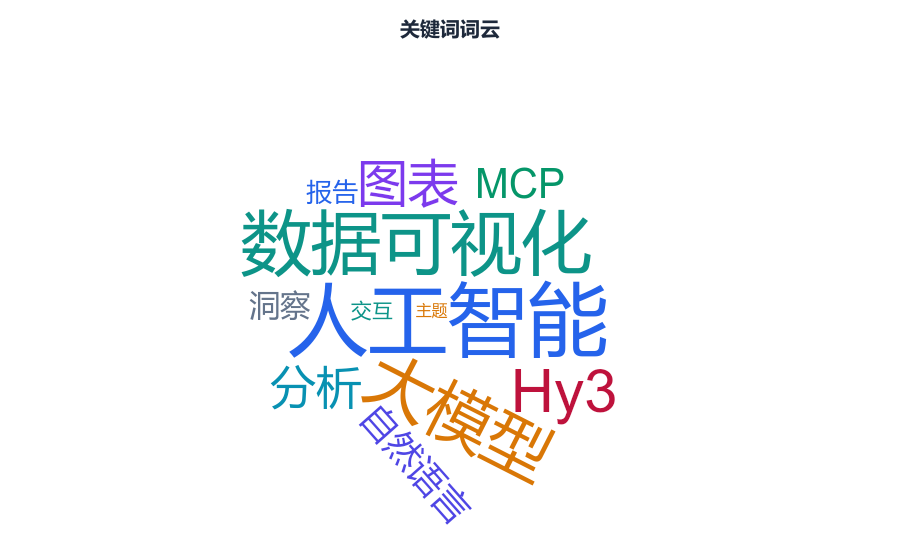
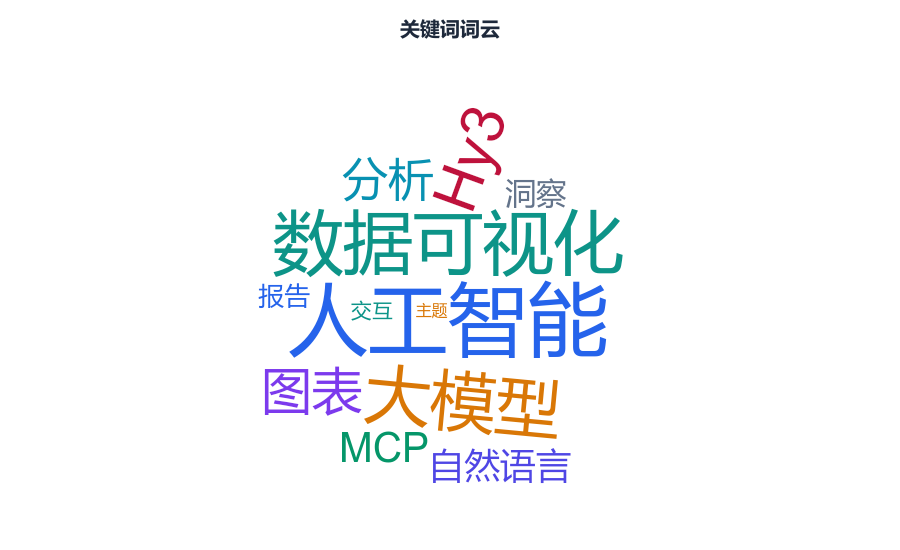
chore: add 3D and composite chart demo screenshots and GIF
- Generate screenshots 11-18 for bar3d, scatter3d, line3d, line_bar,
  dual_axis, stacked_area, grouped_line, area_bar
- Include 3D bar and dual_axis frames in demo GIF
- Update README.md and README_CN.md gallery with new examples

Changed region(s): [[0.2489, 0.1855, 0.7156, 0.5873], [0.28, 0.6491, 0.6844, 0.9582]]

diff --git a/hy3-data-mcp/README.md b/hy3-data-mcp/README.md
@@ -67,6 +67,22 @@ All screenshots are rendered with the **Professional** theme using the bundled s
     <td align="center"><img src="https://raw.githubusercontent.com/xy200303/Hy3/feat/add-hy3-data-mcp/hy3-data-mcp/assets/screenshots/10-dashboard.png" width="420" alt="Dashboard"><br/>Composite dashboard</td>
   </tr>
   <tr>
+    <td align="center"><img src="https://raw.githubusercontent.com/xy200303/Hy3/feat/add-hy3-data-mcp/hy3-data-mcp/assets/screenshots/11-bar3d.png" width="420" alt="3D bar"><br/>3D bar by category</td>
+    <td align="center"><img src="https://raw.githubusercontent.com/xy200303/Hy3/feat/add-hy3-data-mcp/hy3-data-mcp/assets/screenshots/12-scatter3d.png" width="420" alt="3D scatter"><br/>3D scatter: units / revenue / profit</td>
+  </tr>
+  <tr>
+    <td align="center"><img src="https://raw.githubusercontent.com/xy200303/Hy3/feat/add-hy3-data-mcp/hy3-data-mcp/assets/screenshots/13-line3d.png" width="420" alt="3D line"><br/>3D line: units / revenue / profit</td>
+    <td align="center"><img src="https://raw.githubusercontent.com/xy200303/Hy3/feat/add-hy3-data-mcp/hy3-data-mcp/assets/screenshots/14-line_bar.png" width="420" alt="Line + bar"><br/>Line + bar combo</td>
+  </tr>
+  <tr>
+    <td align="center"><img src="https://raw.githubusercontent.com/xy200303/Hy3/feat/add-hy3-data-mcp/hy3-data-mcp/assets/screenshots/15-dual_axis.png" width="420" alt="Dual axis"><br/>Dual-axis combo</td>
+    <td align="center"><img src="https://raw.githubusercontent.com/xy200303/Hy3/feat/add-hy3-data-mcp/hy3-data-mcp/assets/screenshots/16-stacked_area.png" width="420" alt="Stacked area"><br/>Stacked area by region</td>
+  </tr>
+  <tr>
+    <td align="center"><img src="https://raw.githubusercontent.com/xy200303/Hy3/feat/add-hy3-data-mcp/hy3-data-mcp/assets/screenshots/17-grouped_line.png" width="420" alt="Grouped line"><br/>Grouped line by region</td>
+    <td align="center"><img src="https://raw.githubusercontent.com/xy200303/Hy3/feat/add-hy3-data-mcp/hy3-data-mcp/assets/screenshots/18-area_bar.png" width="420" alt="Area + bar"><br/>Area + bar combo</td>
+  </tr>
+  <tr>
     <td align="center" colspan="2"><img src="https://raw.githubusercontent.com/xy200303/Hy3/feat/add-hy3-data-mcp/hy3-data-mcp/assets/dashboard_2024_Sales___Profit_Dashboard_1783662671334.png" width="860" alt="2024 Sales & Profit Dashboard"><br/>2024 Sales &amp; Profit Dashboard (PNG composite)</td>
   </tr>
 </table>

diff --git a/hy3-data-mcp/README_CN.md b/hy3-data-mcp/README_CN.md
@@ -67,6 +67,22 @@
     <td align="center"><img src="https://raw.githubusercontent.com/xy200303/Hy3/feat/add-hy3-data-mcp/hy3-data-mcp/assets/screenshots/10-dashboard.png" width="420" alt="数据大屏"><br/>综合数据大屏</td>
   </tr>
   <tr>
+    <td align="center"><img src="https://raw.githubusercontent.com/xy200303/Hy3/feat/add-hy3-data-mcp/hy3-data-mcp/assets/screenshots/11-bar3d.png" width="420" alt="3D 柱状图"><br/>3D 各品类营收</td>
+    <td align="center"><img src="https://raw.githubusercontent.com/xy200303/Hy3/feat/add-hy3-data-mcp/hy3-data-mcp/assets/screenshots/12-scatter3d.png" width="420" alt="3D 散点图"><br/>3D 销量-营收-利润散点</td>
+  </tr>
+  <tr>
+    <td align="center"><img src="https://raw.githubusercontent.com/xy200303/Hy3/feat/add-hy3-data-mcp/hy3-data-mcp/assets/screenshots/13-line3d.png" width="420" alt="3D 折线图"><br/>3D 销量-营收-利润折线</td>
+    <td align="center"><img src="https://raw.githubusercontent.com/xy200303/Hy3/feat/add-hy3-data-mcp/hy3-data-mcp/assets/screenshots/14-line_bar.png" width="420" alt="折线+柱状组合图"><br/>月度营收与利润组合图</td>
+  </tr>
+  <tr>
+    <td align="center"><img src="https://raw.githubusercontent.com/xy200303/Hy3/feat/add-hy3-data-mcp/hy3-data-mcp/assets/screenshots/15-dual_axis.png" width="420" alt="双轴组合图"><br/>品类营收利润双轴图</td>
+    <td align="center"><img src="https://raw.githubusercontent.com/xy200303/Hy3/feat/add-hy3-data-mcp/hy3-data-mcp/assets/screenshots/16-stacked_area.png" width="420" alt="堆叠面积图"><br/>各区域月度营收堆叠面积图</td>
+  </tr>
+  <tr>
+    <td align="center"><img src="https://raw.githubusercontent.com/xy200303/Hy3/feat/add-hy3-data-mcp/hy3-data-mcp/assets/screenshots/17-grouped_line.png" width="420" alt="分组折线图"><br/>各区域月度营收分组折线</td>
+    <td align="center"><img src="https://raw.githubusercontent.com/xy200303/Hy3/feat/add-hy3-data-mcp/hy3-data-mcp/assets/screenshots/18-area_bar.png" width="420" alt="面积+柱状组合图"><br/>月度利润与营收面积柱状图</td>
+  </tr>
+  <tr>
     <td align="center" colspan="2"><img src="https://raw.githubusercontent.com/xy200303/Hy3/feat/add-hy3-data-mcp/hy3-data-mcp/assets/dashboard_2024_Sales___Profit_Dashboard_1783662671334.png" width="860" alt="2024 销售与利润大屏"><br/>2024 销售与利润数据大屏（PNG 合成图）</td>
   </tr>
 </table>